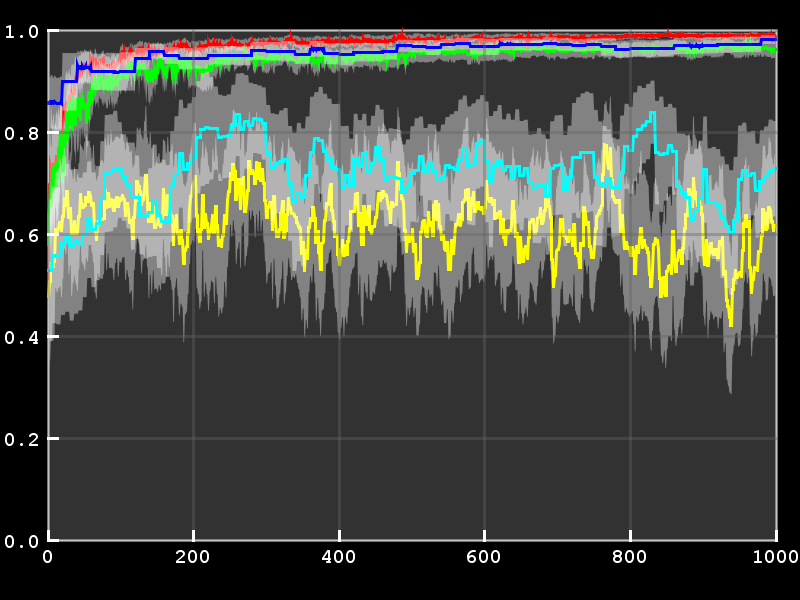
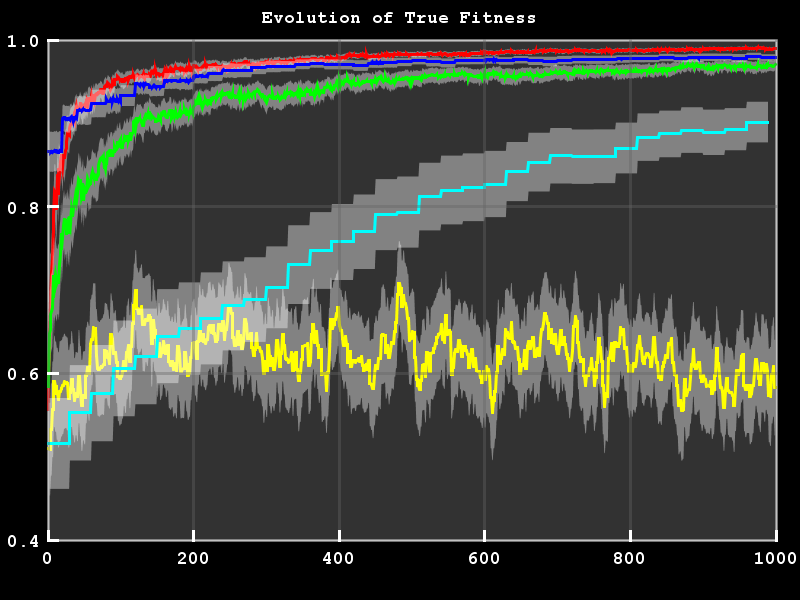
Added a title to the plot

diff --git a/src/plot/LineChart.java b/src/plot/LineChart.java
@@ -21,6 +21,7 @@ public class LineChart extends JComponent {
     Color bg = Color.black; // new Color( 200, 200, 255 );
     ArrayList<LinePlot> lines;
     ArrayList<LineGroup> lineGroups;
+    public String title;
 
     // todo: add ticks for each axis
 
@@ -55,7 +56,7 @@ public class LineChart extends JComponent {
     double rightMargin = leftMargin / 2;
 
     double bottomMargin = 0.1;
-    double topMargin = bottomMargin / 2;
+    double topMargin = bottomMargin / 1.5;
 
     public LineChartAxis xAxis, yAxis;
 
@@ -96,6 +97,11 @@ public class LineChart extends JComponent {
 
     public LineChart addLineGroup(LineGroup lineGroup) {
         lineGroups.add(lineGroup);
+        return this;
+    }
+
+    public LineChart setTitle(String title) {
+        this.title = title;
         return this;
     }
 
@@ -174,7 +180,20 @@ public class LineChart extends JComponent {
 
 
         drawTicks(g, size);
+        drawTitle(g, size);
 
+    }
+
+    private void drawTitle(Graphics2D g, Dimension size) {
+        if (title == null) return;
+        g.setFont(new Font("Monospaced", Font.BOLD, getFontSize(size)));
+        Rectangle2D rect = g.getFontMetrics().getStringBounds(title, g);
+        System.out.println("Title: " + rect);
+        // use a drawString method for now
+        int sx = (int) ((size.getWidth() - rect.getWidth()) / 2);
+        int sy = (int) (plotTop + labelGap * size.getHeight()  + rect.getCenterY() * 2 );
+        g.setColor(labelColor);
+        drawInvertedString(g, title, sx, sy);
     }
 
     private void drawLines(Graphics2D g) {
@@ -282,10 +301,14 @@ public class LineChart extends JComponent {
     Color tickColor = new Color(200, 200, 200, 200);
     Color labelColor = Color.white;
 
+    private int getFontSize(Dimension size) {
+        return (int) (2.1 * size.getHeight() * tickHeight);
+    }
+
     private void drawTicks(Graphics2D g, Dimension size) {
-        int fontSize = (int) (2 * size.getHeight() * tickHeight);
-        System.out.println("Font size: " + fontSize);
-        fontSize = 20;
+        int fontSize = getFontSize(size);
+        // System.out.println("Font size: " + fontSize);
+        // fontSize = 20;
         if (xAxis != null) {
             // draw the x ticks in
             Path2D.Double path = new Path2D.Double();

diff --git a/src/evodef/TestEAGraphRunTrials.java b/src/evodef/TestEAGraphRunTrials.java
@@ -27,7 +27,7 @@ public class TestEAGraphRunTrials {
         int nDims=20, mValues = 2;
         double noise = 1.0;
         int nEvals = 1000;
-        int nTrials = 20;
+        int nTrials = 100;
 
         NoisySolutionEvaluator solutionEvaluator = new EvalNoisyWinRate(nDims, mValues, noise);
         // solutionEvaluator = new EvalMaxM(nDims, mValues, noise);
@@ -39,7 +39,7 @@ public class TestEAGraphRunTrials {
         // Set up all the algorithms to test
 
         SimpleRMHC rmhc1 = new SimpleRMHC(1);
-        SimpleRMHC rmhc5 = new SimpleRMHC(3);
+        SimpleRMHC rmhc5 = new SimpleRMHC(15);
 
         int windowLength = 30;
         CompactSlidingGA slidingGA = new CompactSlidingGA().setHistoryLength(windowLength);
@@ -67,11 +67,11 @@ public class TestEAGraphRunTrials {
 
         Color[] colors = {Color.red, Color.green, Color.blue, Color.yellow, Color.cyan, Color.pink, Color.magenta};
 
-        LineChart lineChart = new LineChart();
+        LineChart lineChart = new LineChart().setTitle("Evolution of True Fitness");
 
         lineChart.xAxis = new LineChartAxis(new double[]{0, 200, 400, 600, 800, 1000});
         // lineChart.yAxis = new LineChartAxis(new double[]{40, 50, 60, 70, 80, 90, 100});
-        lineChart.yAxis = new LineChartAxis(new double[]{0.0, 0.2, 0.4, 0.6, 0.8, 1.0});
+        lineChart.yAxis = new LineChartAxis(new double[]{0.4, 0.6, 0.8, 1.0});
 
 
         for (int i=0; i<evos.size(); i++) {
